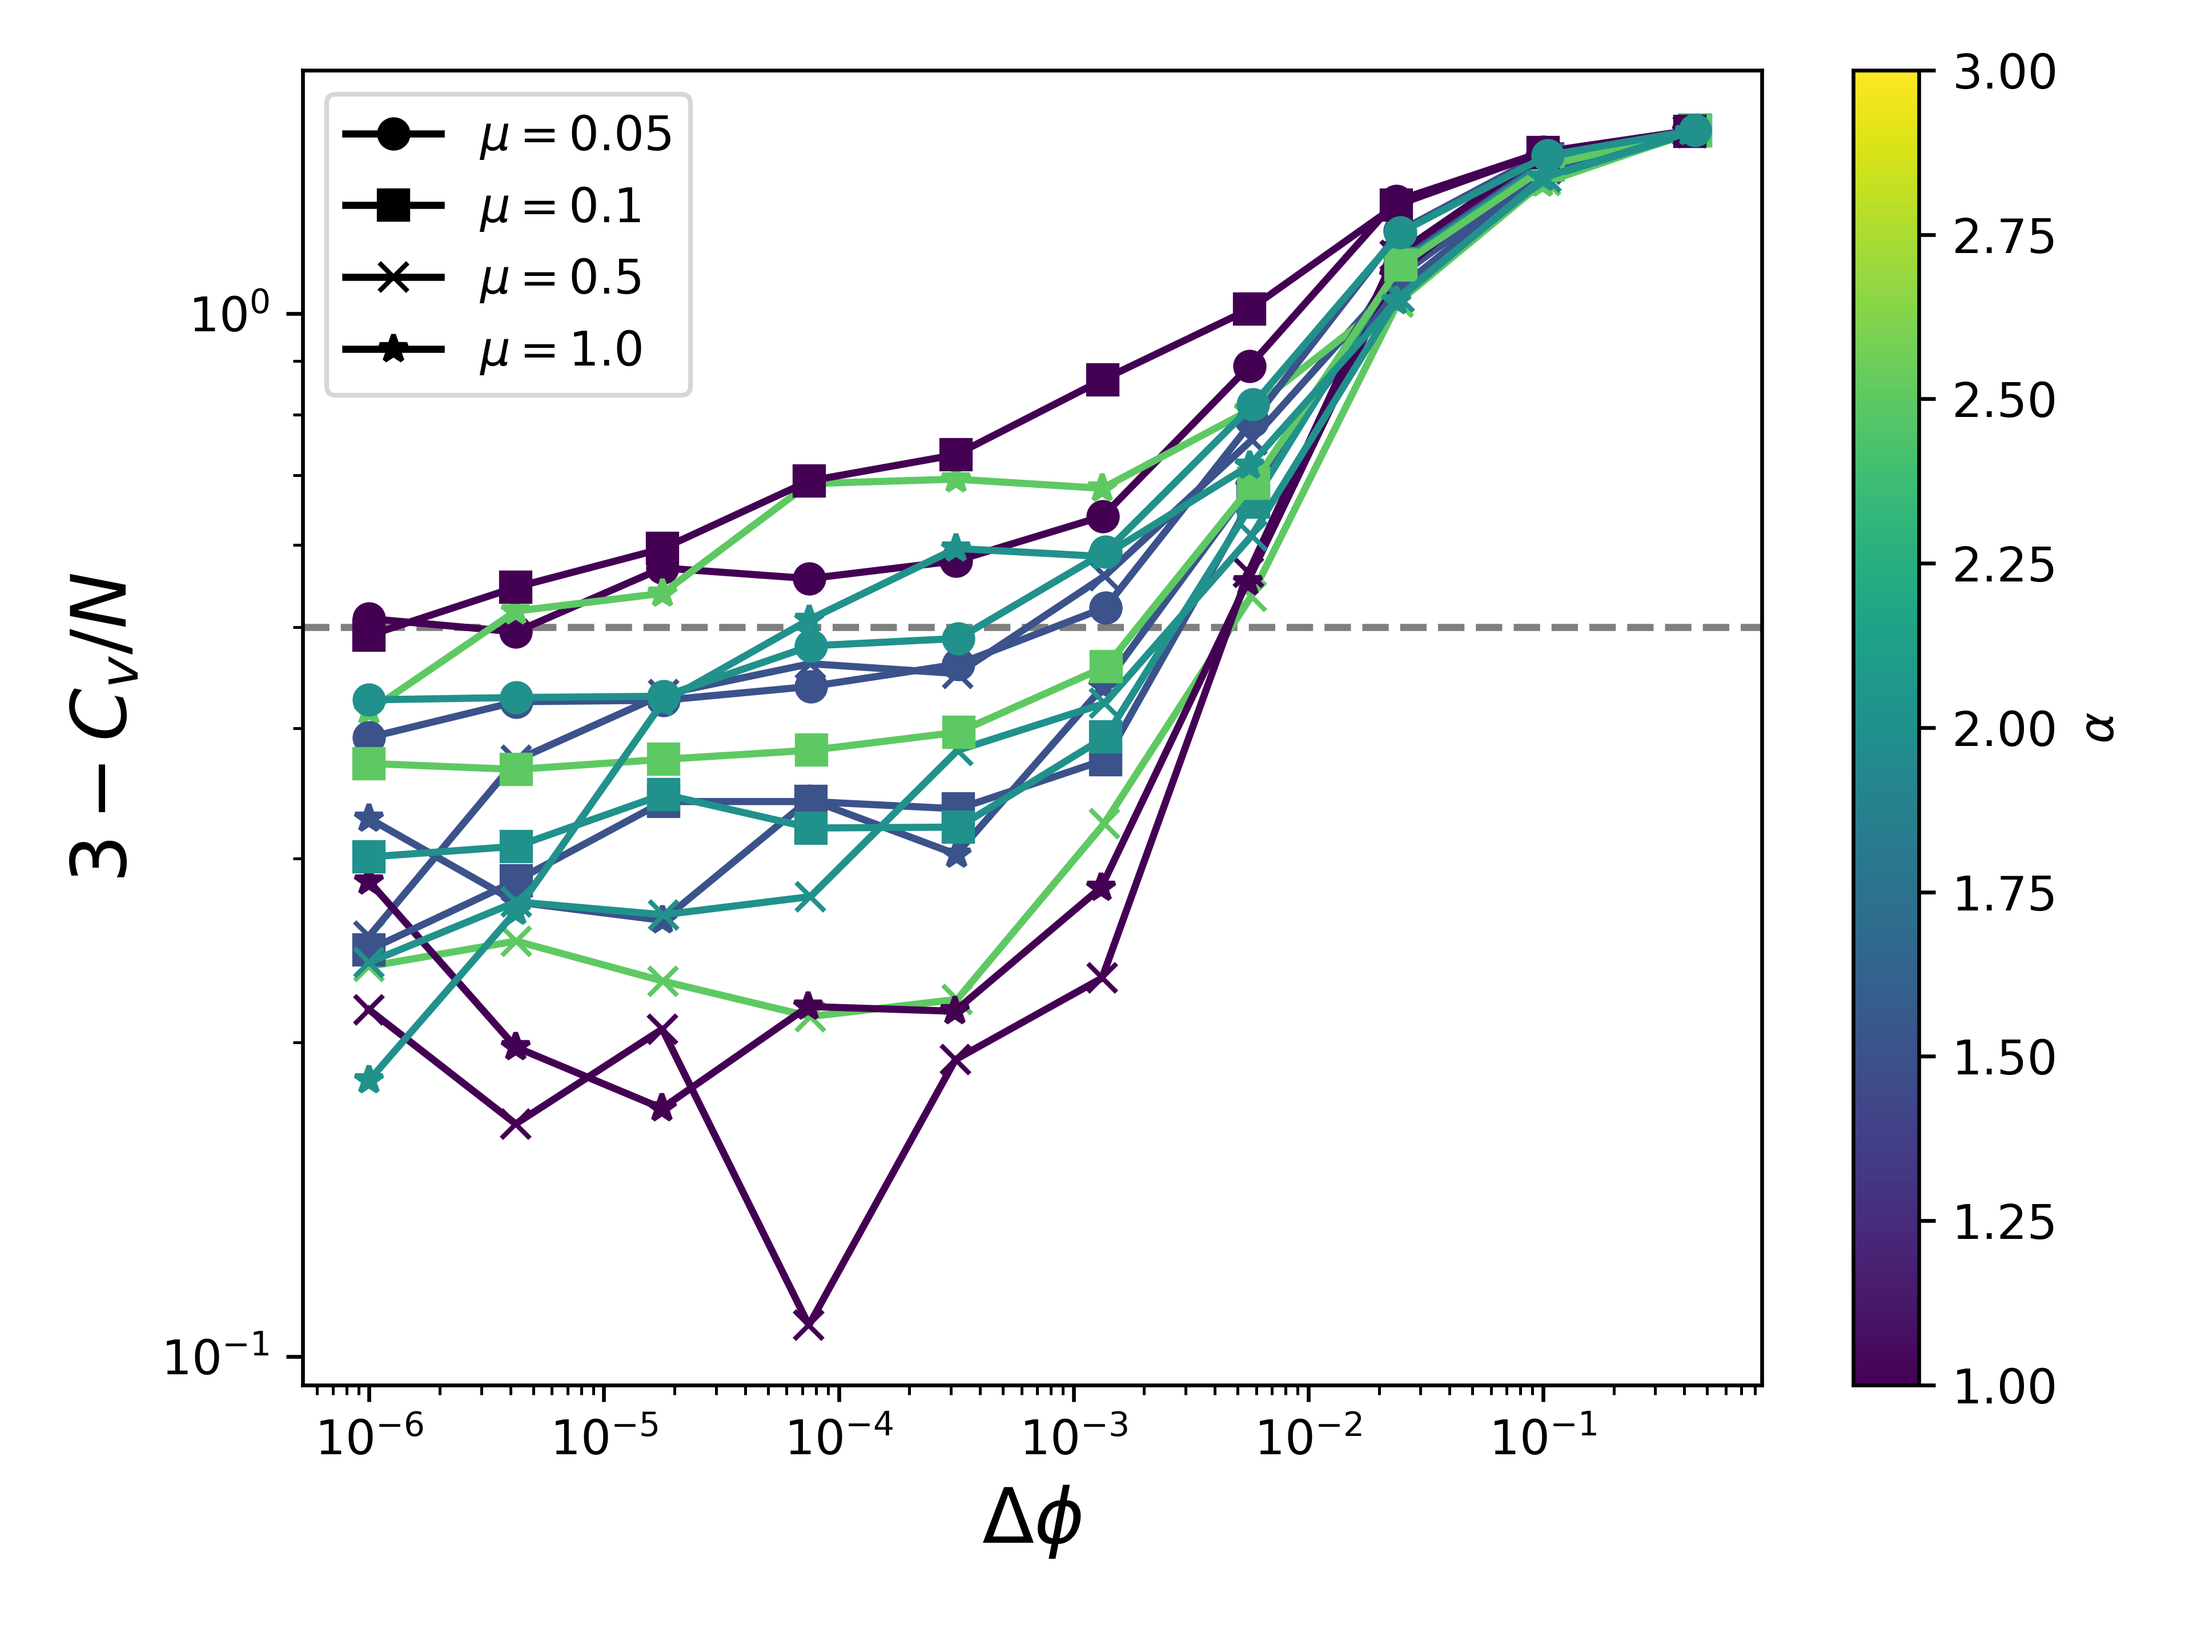
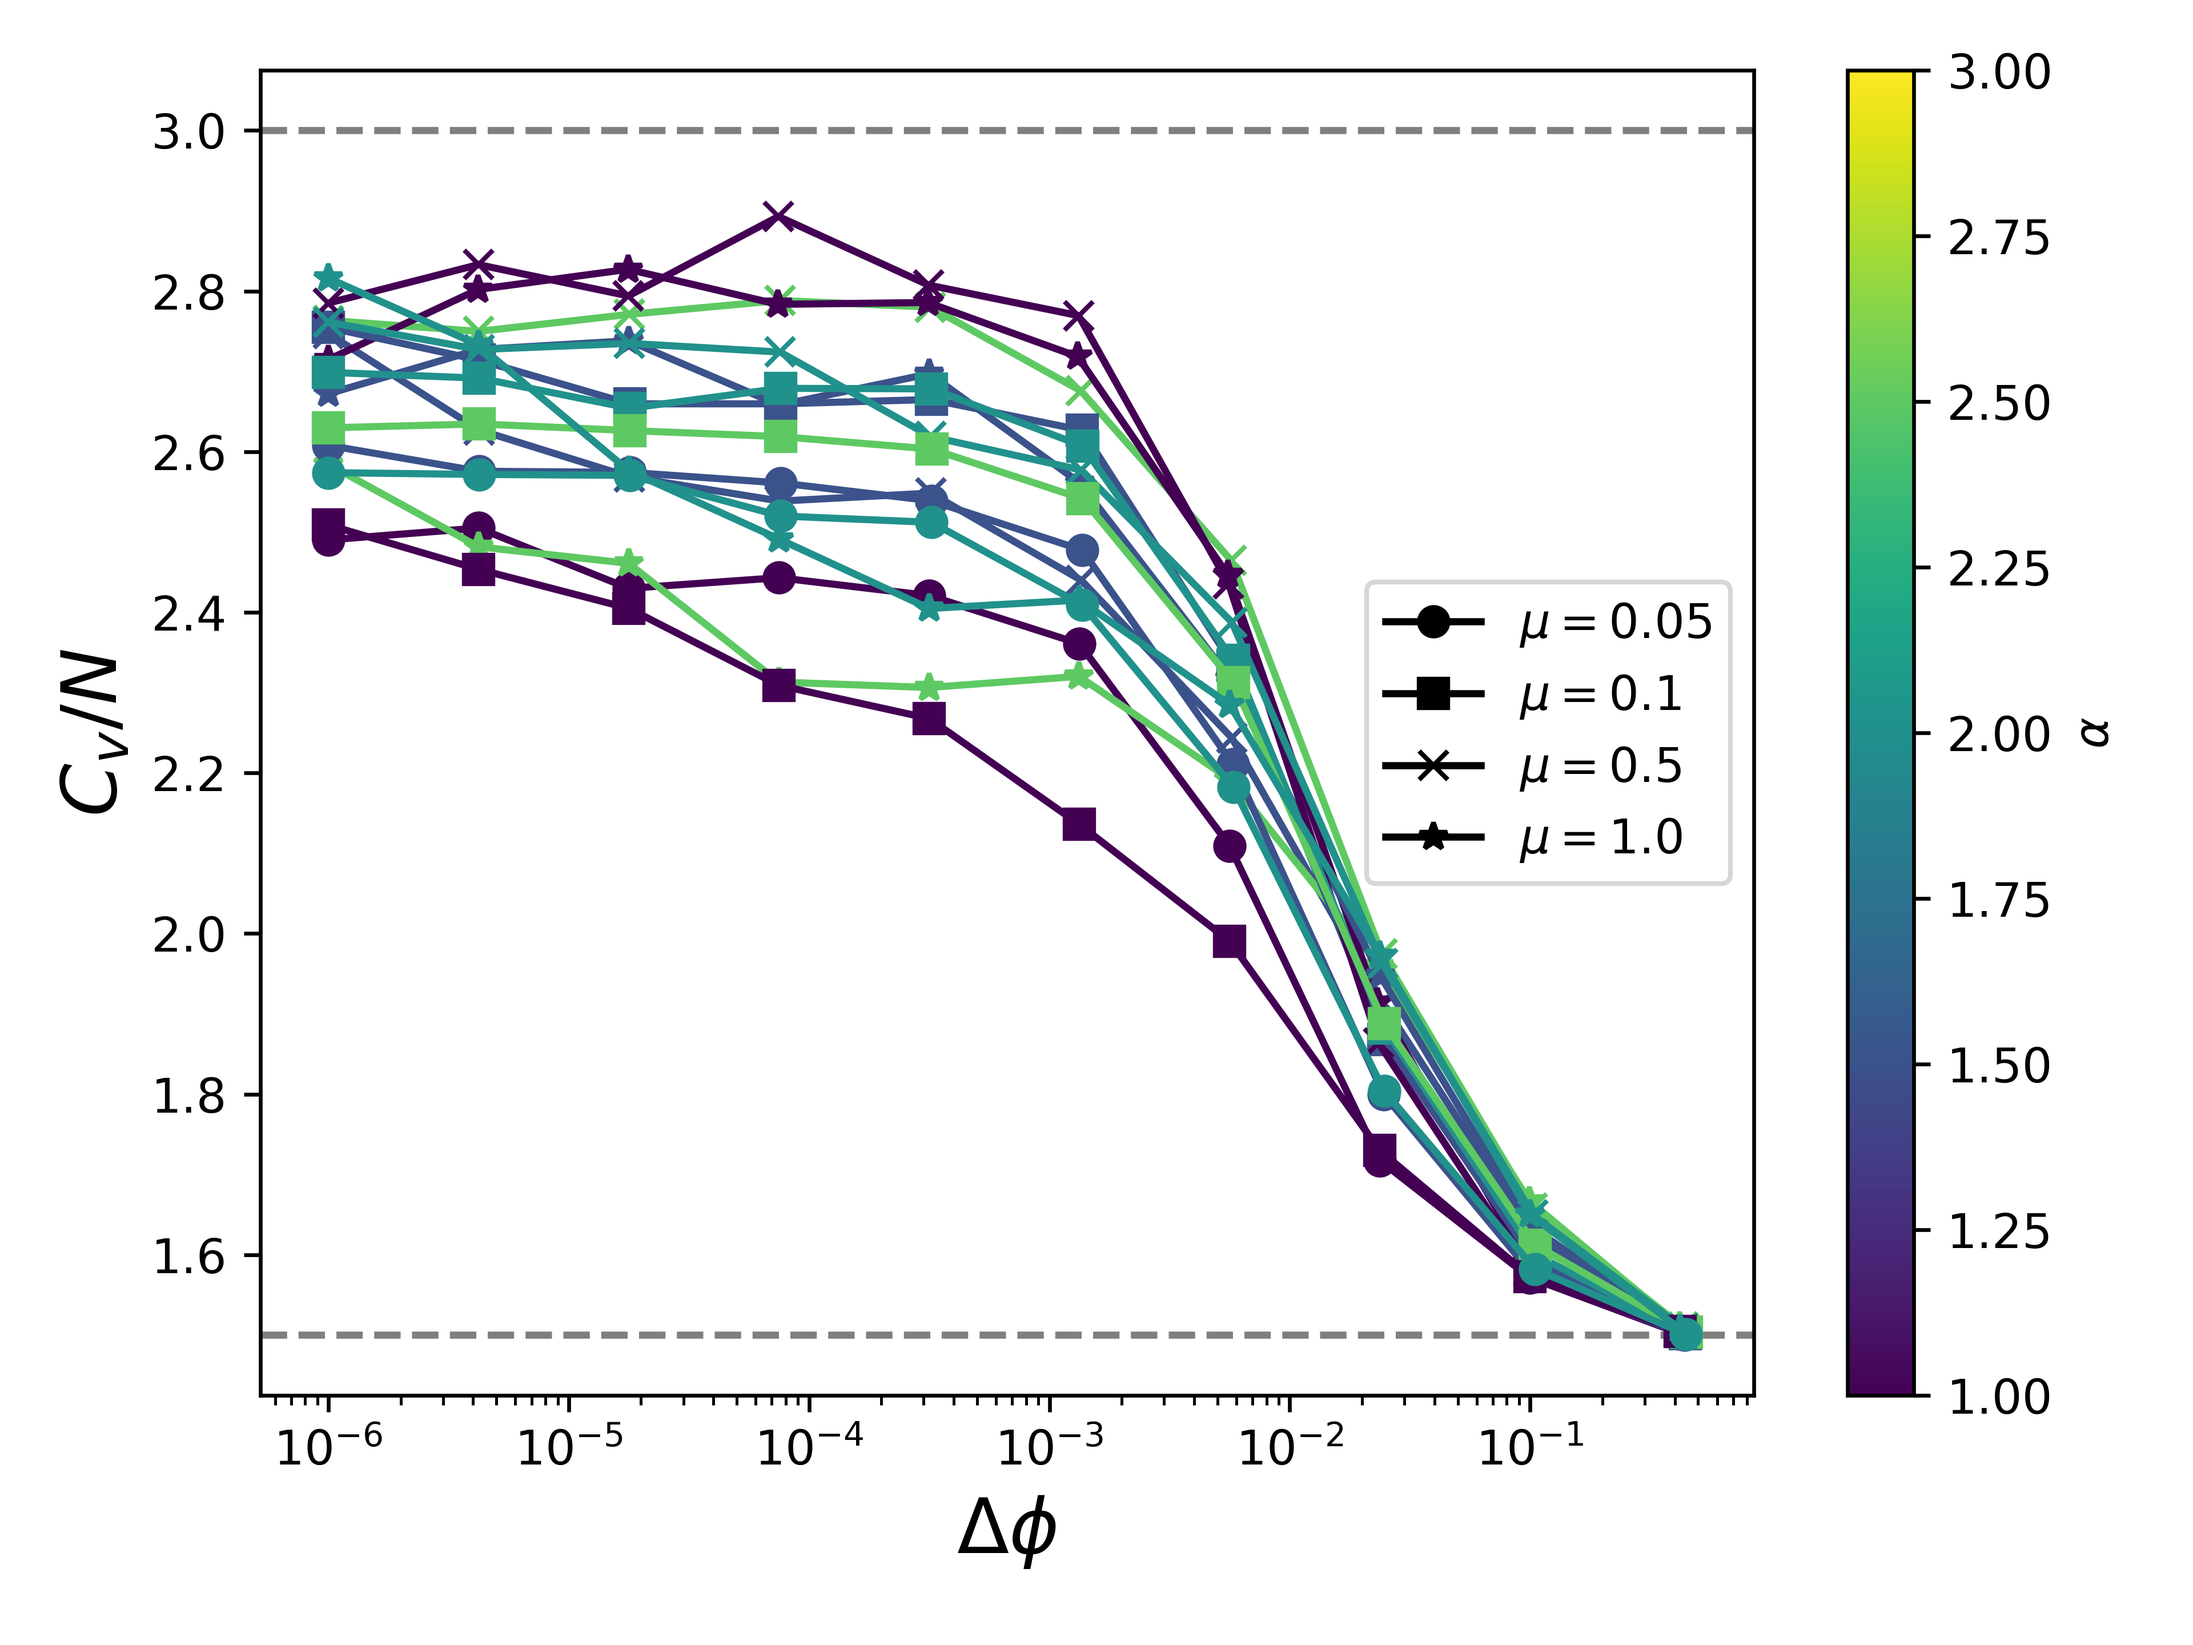
added cv figures

diff --git a/01/grant/specific-heat-3/plot-cv.py b/01/grant/specific-heat-3/plot-cv.py
@@ -1,4 +1,5 @@
 import os
+from matplotlib.colors import LogNorm
 import numpy as np
 import matplotlib.pyplot as plt
 
@@ -14,6 +15,7 @@ mu_markers = {
     1.0: '*',
 }
 alpha_norm = plt.Normalize(1, 3)
+mu_norm = LogNorm(min(list(mu_markers.keys())), max(list(mu_markers.keys())))
 
 for which in os.listdir(root):
     for run_id in os.listdir(os.path.join(root, which)):
@@ -52,7 +54,7 @@ for which in os.listdir(root):
         plt.close()
 
 
-
+mus, alphas, cv_lists, dphi_lists = [], [], [], []
 for which in os.listdir(root):
     _, mu, _, alpha = which.split('-')
     mu = float(mu)
@@ -81,11 +83,16 @@ for which in os.listdir(root):
                 cvs.append(C_v / data['N'])
                 dphis.append(-data['delta_phi'])
 
+                cv_lists.append(C_v / data['N'])
+                dphi_lists.append(-data['delta_phi'])
+                mus.append(mu)
+                alphas.append(alpha)
+
             dphis = np.array(dphis)
             cvs = np.array(cvs)[np.argsort(dphis)]
             dphis = np.sort(dphis)
 
-            plt.plot(dphis, 3 - cvs, c=cmap(alpha_norm(alpha)), marker=mu_markers[mu])
+            plt.plot(dphis, cvs, c=cmap(alpha_norm(alpha)), marker=mu_markers[mu])
 
 sm = plt.cm.ScalarMappable(norm=alpha_norm, cmap=cmap)
 sm.set_array(list(range(1, 4)))
@@ -95,18 +102,57 @@ for mu, marker in mu_markers.items():
     plt.plot([], [], c='k', marker=marker, label=fr'$\mu=${mu}')
 plt.legend()
 
-plt.axhline(0.5, c='k', ls='--', alpha=0.5, zorder=0)
+plt.axhline(1.5, c='k', ls='--', alpha=0.5, zorder=0)
+plt.axhline(3, c='k', ls='--', alpha=0.5, zorder=0)
 
 plt.xscale('log')
-plt.yscale('log')
+# plt.yscale('log')
 plt.xlabel(r'$\Delta \phi$', fontsize=16)
-plt.ylabel(r'$3 - C_v / N$', fontsize=16)
+plt.ylabel(r'$C_v / N$', fontsize=16)
 plt.tight_layout()
 plt.savefig(os.path.join('figures', 'all-dense-case.png'), dpi=600)
 plt.close()
 
+alphas = np.array(alphas)
+mus = np.array(mus)
+cv_lists = np.array(cv_lists)
+dphi_lists = np.array(dphi_lists)
 
+for alpha in np.unique(alphas):
+    for mu in np.unique(mus):
+        mask = (alphas == alpha) & (mus == mu)
+        x = dphi_lists[mask]
+        y = cv_lists[mask]
+        plt.plot(x[np.argsort(x)], y[np.argsort(x)], c=cmap(mu_norm(mu)))
+    sm = plt.cm.ScalarMappable(norm=mu_norm, cmap=cmap)
+    sm.set_array(np.unique(mus))
+    cbar = plt.colorbar(sm, ax=plt.gca(), label=r'$\mu_{eff}$')
+    plt.xscale('log')
+    plt.xlabel(r'$\Delta \phi$', fontsize=16)
+    plt.ylabel(r'$C_v / N$', fontsize=16)
+    plt.axhline(1.5, c='k', ls='--', alpha=0.5, zorder=0)
+    plt.axhline(3, c='k', ls='--', alpha=0.5, zorder=0)
+    plt.tight_layout()
+    plt.savefig(os.path.join('figures', f'alpha-{alpha}.png'), dpi=600)
+    plt.close()
 
+for mu in np.unique(mus):
+    for alpha in np.unique(alphas):
+        mask = (alphas == alpha) & (mus == mu)
+        x = dphi_lists[mask]
+        y = cv_lists[mask]
+        plt.plot(x[np.argsort(x)], y[np.argsort(x)], c=cmap(alpha_norm(alpha)))
+    sm = plt.cm.ScalarMappable(norm=alpha_norm, cmap=cmap)
+    sm.set_array(np.unique(alphas))
+    cbar = plt.colorbar(sm, ax=plt.gca(), label=r'$\alpha$')
+    plt.xscale('log')
+    plt.xlabel(r'$\Delta \phi$', fontsize=16)
+    plt.ylabel(r'$C_v / N$', fontsize=16)
+    plt.axhline(1.5, c='k', ls='--', alpha=0.5, zorder=0)
+    plt.axhline(3, c='k', ls='--', alpha=0.5, zorder=0)
+    plt.tight_layout()
+    plt.savefig(os.path.join('figures', f'mu-{mu}.png'), dpi=600)
+    plt.close()
 
 for which in os.listdir(root):
     _, mu, _, alpha = which.split('-')
